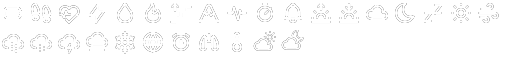
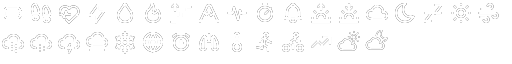
Claude Grid: fit labels/values to the round screen, complication display fixes
- Every text line is fitted to the screen width AT ITS OWN ROW (ClaudeGridSlot.widthAt): the old
  single budget was measured at the slot centre, so labels lifted above it ran off the bezel.
  The value font steps down to a new 20 px cg_tiny before anything is shortened.
- fitText shortens by whole tokens first (a space, or a +/- sign after a digit), then characters.
  Numbers are never chopped: "227.52" -> "227.5" would silently change the value.
- Quote Glance and other long values keep their leading token, e.g. the price without "+0.45%".
- Connect IQ complications (type INVALID) are only treated as Claude percentages (the % suffix,
  ring/arc fill of value/100) when the long label says "Claude"; before, every third-party one was.
- High/low: all spaces are stripped from both readings, so "29° / 27°" no longer staggers them.
- Icons for VO2 max run (runner), VO2 max bike (bike) and training status (trending-up). Training
  status shows a short code: PROD, MAINT, RECOV, UNPROD, DETRN, OVRRCH, PEAK, STRAIN, and -- for
  no status.
- Forecasts, race predictors and golf show their default label and value again (no forced "--").
  Forecasts get no icon rather than today's condition.
- Data 01's text stays inside the battery arc (at most 180 px).

Changed region(s): [[0.5, 0.4688, 0.7812, 0.8125]]

diff --git a/watchface-grid/tools/build_fonts_chivo.py b/watchface-grid/tools/build_fonts_chivo.py
@@ -31,6 +31,7 @@ FONTS = [
     ("cg_med",     30, DIGITS + UPPER + SYM, 512, 0),   # chip values, alt-tz, seconds value
     ("cg_week",    27, UPPER,                256, 0),   # weekday strip letters
     ("cg_small",   24, DIGITS + UPPER + SYM, 256, 0),   # battery %, SEC label
+    ("cg_tiny",    20, DIGITS + UPPER + SYM, 256, 0),   # last-resort value font for narrow corner slots
 ]
 
 for out_base, size, chars, atlas_w, stroke in FONTS:
@@ -68,6 +69,9 @@ ICONS = [
     0xea04,   # alarm               -> alarm indicator
     0xef62,   # lungs               -> RESPIRATION_RATE
     0xeb38,   # temperature         -> CURRENT_TEMPERATURE
+    0xec82,   # run                 -> VO2MAX_RUN
+    0xea36,   # bike                -> VO2MAX_BIKE
+    0xeb43,   # trending-up         -> TRAINING_STATUS
 ]
 # CIQ addresses font glyphs by 16-bit code only, so anything Tabler files above U+FFFF is
 # re-filed under a free BMP private-use code (source glyph -> emitted id). The face must ask for
